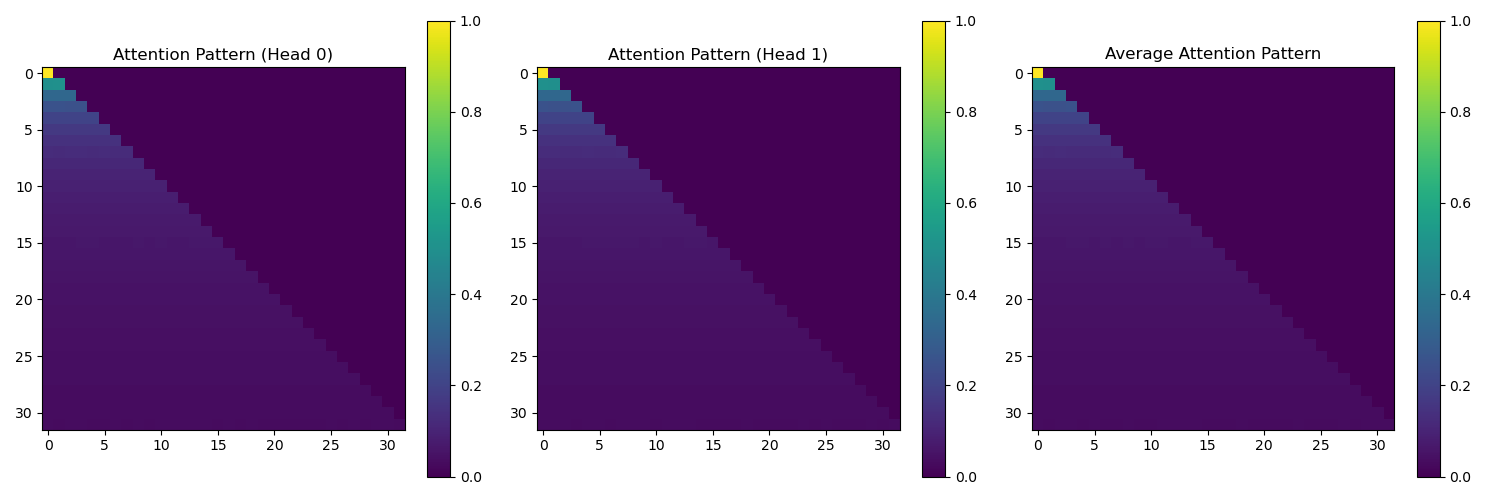
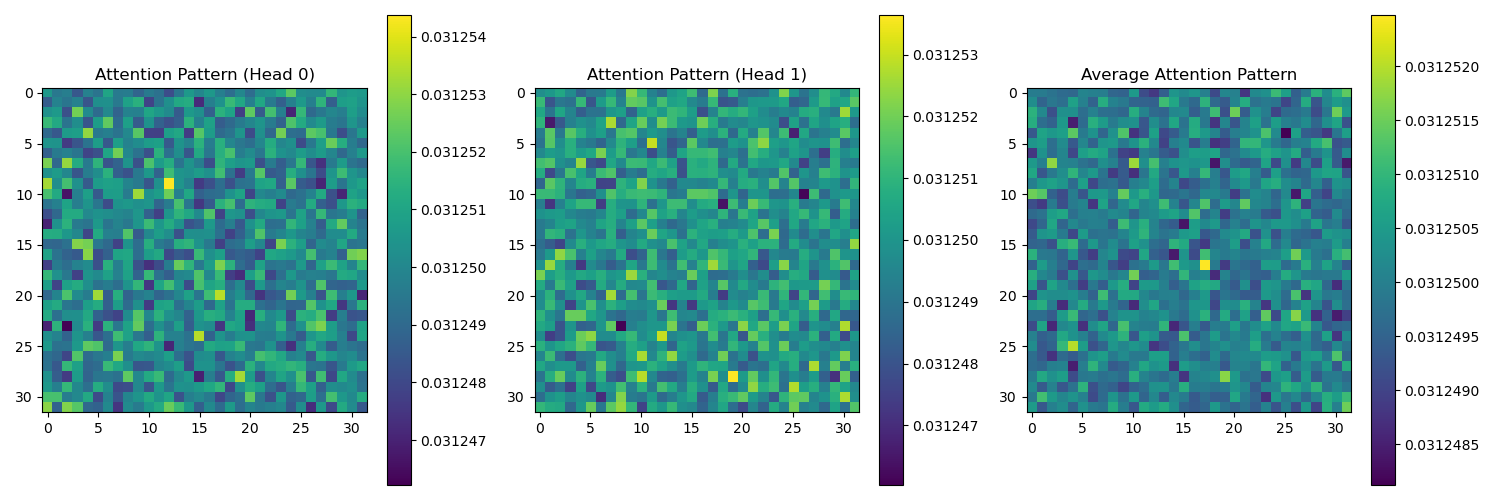
refactored attention head visualisation

diff --git a/test_rope_attention.py b/test_rope_attention.py
@@ -89,11 +89,8 @@ def test_rotary_embeddings():
     key_layer = torch.randn(batch_size, seq_length, head_dim * num_heads) * 0.1
     value_layer = torch.randn(batch_size, seq_length, head_dim * num_heads) * 0.1
     
-    # Create proper causal attention mask with better numerical stability
-    attn_mask = torch.triu(
-        torch.zeros(seq_length, seq_length) - 65504,  # Use float16 max negative instead of -1e4
-        diagonal=1
-    ).to(device=query_layer.device, dtype=query_layer.dtype)
+    # Create bidirectional attention mask (remove causal masking)
+    attn_mask = torch.zeros(seq_length, seq_length).to(device=query_layer.device, dtype=query_layer.dtype)
     
     # Scale inputs for better numerical stability
     query_scale = math.sqrt(1.0 / (head_dim * num_heads))
@@ -197,8 +194,12 @@ def test_rotary_embeddings():
     print(f"Average difference after shifting: {weights_shift_diff:.6f}")
     
     # 2. Analyze relative position sensitivity
+    print("\nAnalyzing position sensitivity...")
+    
+    # Store weights for all heads
+    all_head_weights = []
     for head in range(num_heads):
-        head_weights = weights[0, head]
+        head_weights = weights[0, head]  # Get weights for current head
         
         # Calculate average attention weight for each relative position
         rel_pos_weights = {}
@@ -207,25 +208,51 @@ def test_rotary_embeddings():
             if len(diag_vals) > 0:
                 avg_weight = diag_vals.mean().item()
                 rel_pos_weights[pos] = avg_weight
-        
-        # Print strongest attention positions
-        sorted_pos = sorted(rel_pos_weights.items(), key=lambda x: abs(x[1]), reverse=True)
+        all_head_weights.append(rel_pos_weights)
     
     # Plot relative position sensitivity
-    plt.figure(figsize=(10, 5))
-    positions = list(rel_pos_weights.keys())
-    weights_list = [rel_pos_weights[p] for p in positions]
+    plt.figure(figsize=(12, 6))
     
-    plt.plot(positions, weights_list, 'b-', label='Average attention')
-    plt.axvline(x=0, color='r', linestyle='--', alpha=0.5)
+    # Plot for each head
+    for head in range(num_heads):
+        positions = list(all_head_weights[head].keys())
+        weights_list = [all_head_weights[head][p] for p in positions]
+        plt.plot(positions, weights_list, 
+                label=f'Head {head}', 
+                alpha=0.7,
+                linestyle='-',
+                marker='.')
+    
+    # Add average across heads
+    avg_weights = {}
+    for pos in positions:
+        avg_weights[pos] = np.mean([hw[pos] for hw in all_head_weights])
+    avg_weights_list = [avg_weights[p] for p in positions]
+    plt.plot(positions, avg_weights_list, 
+            'k--', 
+            label='Average',
+            linewidth=2)
+    
+    # Formatting
+    plt.axvline(x=0, color='r', linestyle=':', alpha=0.5)
     plt.xlabel('Relative Position')
     plt.ylabel('Average Attention Weight')
-    plt.title('Attention Weight vs Relative Position')
+    plt.title('Attention Weight vs Relative Position by Head')
     plt.legend()
-    plt.grid(True)
+    plt.grid(True, alpha=0.3)
+    
+    # Add text box with statistics
+    stats_text = f"Statistics:\n"
+    stats_text += f"Max weight: {max(avg_weights_list):.4f}\n"
+    stats_text += f"Min weight: {min(avg_weights_list):.4f}\n"
+    stats_text += f"Mean weight: {np.mean(avg_weights_list):.4f}"
+    plt.text(0.02, 0.98, stats_text,
+             transform=plt.gca().transAxes,
+             verticalalignment='top',
+             bbox=dict(boxstyle='round', facecolor='white', alpha=0.8))
     
     plt.tight_layout()
-    plt.savefig('position_sensitivity.png')
+    plt.savefig('position_sensitivity.png', dpi=300, bbox_inches='tight')
     plt.close()
 
 if __name__ == "__main__":
